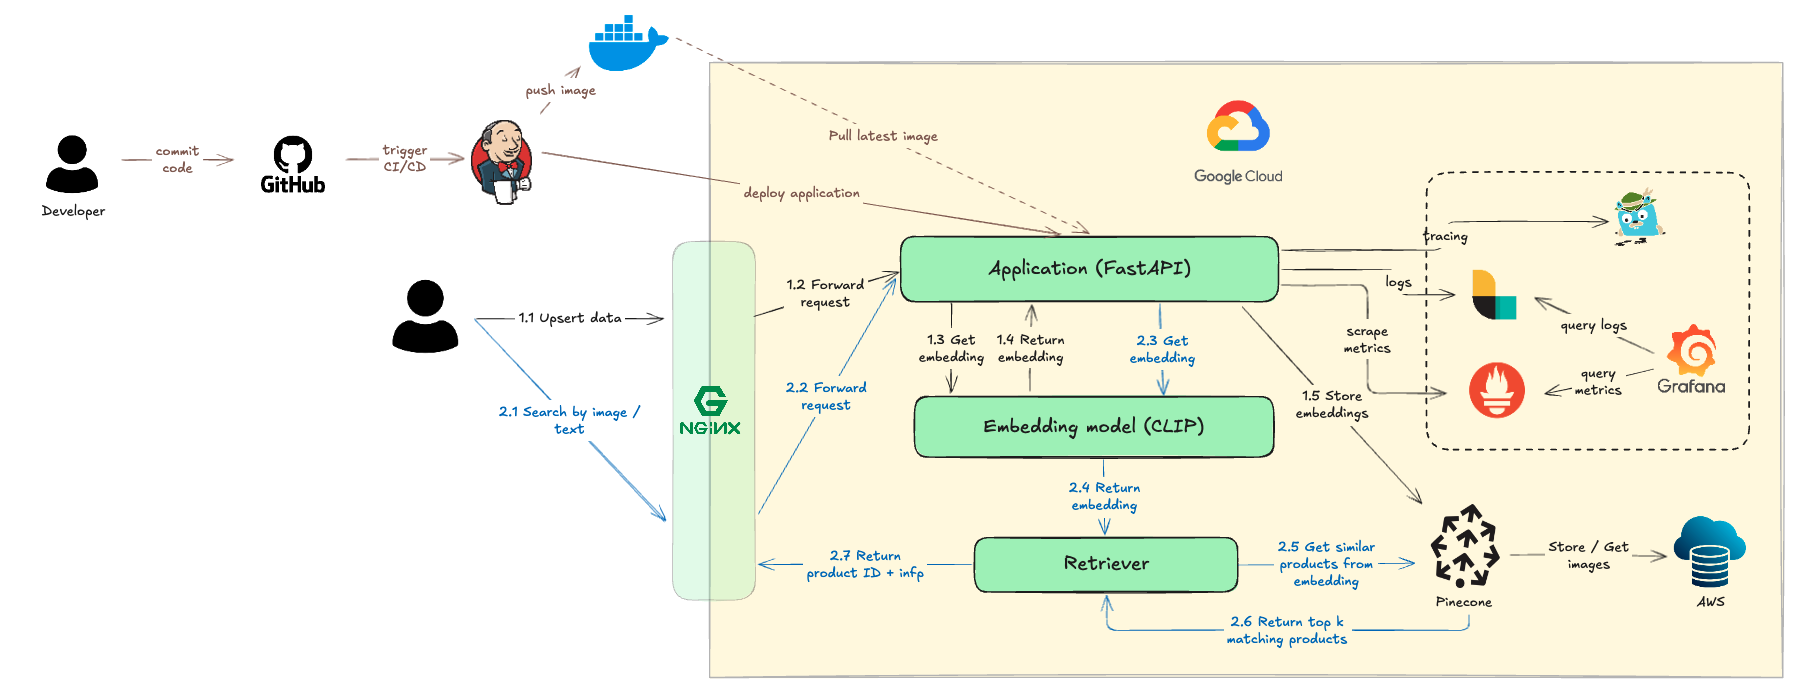
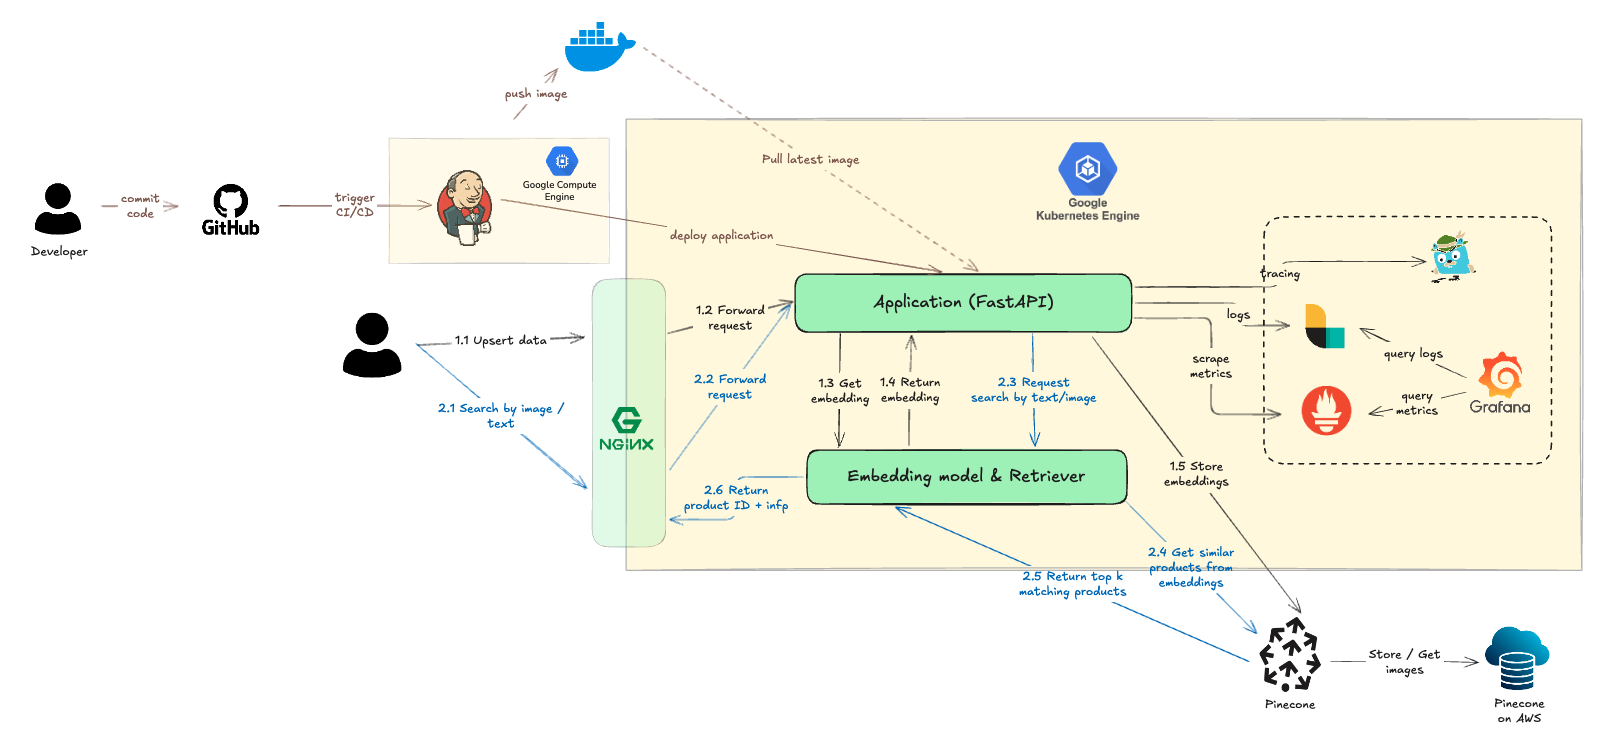
Fix: architecture, secret storage, requirements version, k8s deployment GKE

Changed region(s): [[0.0, 0.0302, 0.9926, 0.9971], [0.8685, 0.2719, 0.9305, 0.3928]]

diff --git a/main.py b/main.py
@@ -1,5 +1,5 @@
 from fastapi import FastAPI, UploadFile, File, Form
-from app.api.search import search_by_image, search_by_text, upsert_product
+from app.api.search import perform_image_search, perform_text_search, perform_upsert_product
 from app.telemetry.tracing import setup_tracing
 from app.telemetry.metrics import setup_metrics
 from app.logs.logging import setup_logging
@@ -18,17 +18,17 @@ def create_app():
 
     # Register upsert and search functions as POST APIs
     @app.post("/search_by_image")
-    async def _search_by_image(file: UploadFile = File(...), top_k: int = 5):
+    async def search_by_image(file: UploadFile = File(...), top_k: int = 5):
         img_bytes = await file.read()
-        return await search_by_image(img_bytes, top_k)
+        return perform_image_search(img_bytes, top_k)
     
     @app.post("/search_by_text")
-    async def _search_by_text(query: str = Form(...), top_k: int = 5):
-        return await search_by_text(query, top_k)
+    async def search_by_text(query: str = Form(...), top_k: int = 5):
+        return perform_text_search(query, top_k)
     
     @app.post("/upsert_product")
-    async def _upsert_product(file: UploadFile = File(...), metadata_json: str = Form(...)):
-        return await upsert_product(file, metadata_json)
+    async def upsert_product(file: UploadFile = File(...), metadata_json: str = Form(...)):
+        return await perform_upsert_product(file, metadata_json)
 
     logging.info("Application setup complete.")
     return app

diff --git a/app/api/search.py b/app/api/search.py
@@ -37,7 +37,7 @@ def get_image_embedding(image_bytes: bytes) -> np.ndarray:
     return emb_normalized.cpu().numpy()[0]
 
 @router.post("/image")
-async def search_by_image(image: bytes, top_k: int = 5):
+def perform_image_search(image: bytes, top_k: int = 5):
     embedding = get_image_embedding(image)
     results = pinecone.search(embedding, top_k=top_k, namespace="product-search")
     matches_dict = [match.to_dict() for match in results['matches']]
@@ -55,7 +55,7 @@ def get_text_embedding(text: str) -> np.ndarray:
     return emb_normalized.cpu().numpy()[0]
 
 @router.post("/text")
-async def search_by_text(query: str = Form(...), top_k: int = 5):
+def perform_text_search(query: str = Form(...), top_k: int = 5):
     embedding = get_text_embedding(query)
     results = pinecone.search(embedding, top_k=top_k, namespace="product-search")
     matches_dict = [match.to_dict() for match in results['matches']]
@@ -64,7 +64,7 @@ async def search_by_text(query: str = Form(...), top_k: int = 5):
 
 ### API upsert a new product to vector database
 @router.post("/upsert-product")
-async def upsert_product(image: UploadFile = File(...), metadata_json: str = Form(...)):
+async def perform_upsert_product(image: UploadFile = File(...), metadata_json: str = Form(...)):
     # json.loads: convert metadata JSON string into dict
     metadata_dict = json.loads(metadata_json)
     # Ensure matching of structure & data type of base model (ProductMetadata)

diff --git a/app/model/pinecone_client.py b/app/model/pinecone_client.py
@@ -21,10 +21,10 @@ class PineConeManager:
         if model is None or processor is None:
             raise ValueError("clip_model and clip_processor must be provided")
         
-                # Get API key from environment
-        api_key = os.environ.get("PINECONE_API_KEY")
+        # Get API key from environment
+        api_key = os.getenv("PINECONE_API_KEY")
         if not api_key:
-            raise RuntimeError("PINECONE_API_KEY not set in environment")
+            raise ValueError("PINECONE_API_KEY environment variable not set. Cannot initialize Pinecone.")
         self.pc = Pinecone(api_key=api_key)
         
         # Initialize and create index if not existed

diff --git a/tests/test_api.py b/tests/test_api.py
@@ -1,6 +1,6 @@
 import pytest
 from fastapi.testclient import TestClient
-from unittest.mock import MagicMock, patch
+from unittest.mock import MagicMock, patch, AsyncMock
 import json
 from main import create_app
 
@@ -59,7 +59,7 @@ def test_upsert_product_success():
         "id": "1234"
     }
 
-    with patch("main.upsert_product", return_value=mock_response) as mock_fn:
+    with patch("main.perform_upsert_product", new_callable=AsyncMock, return_value=mock_response) as mock_fn:
         raw_metadata = {
             "id": "1234",
             "metadata": {"color": "red", "category": "apparel"}
